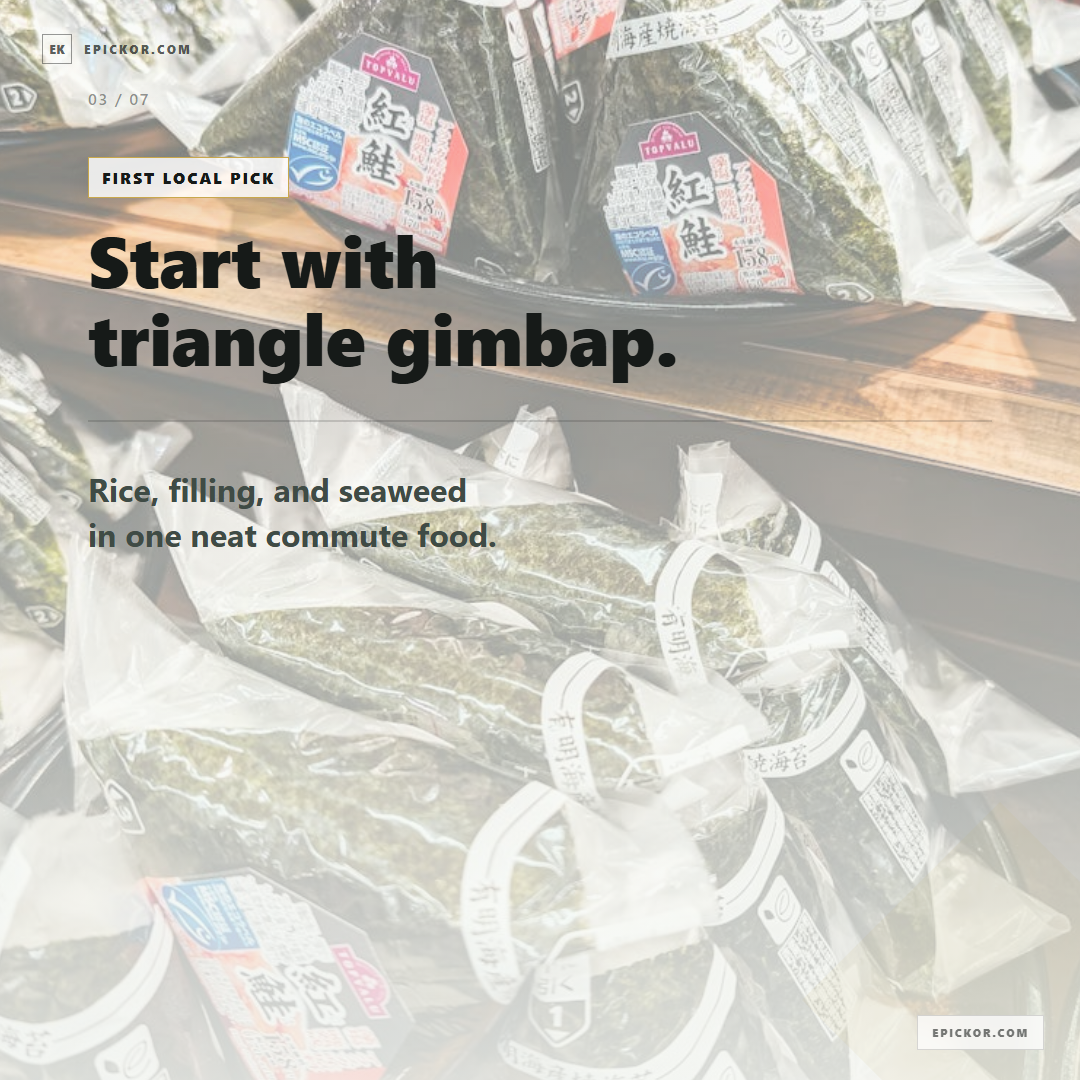
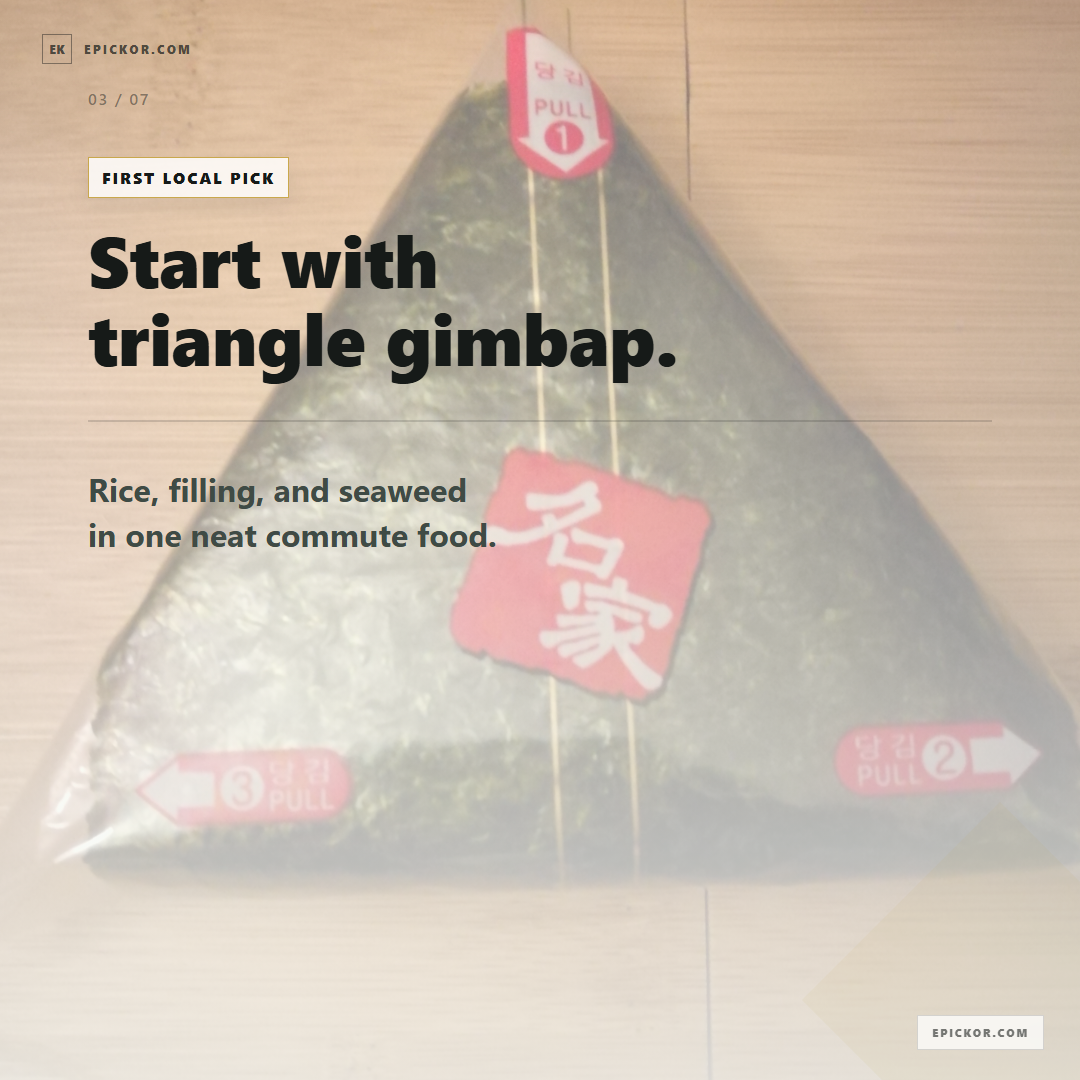
Require Korea-first card news imagery

diff --git a/public/assets/cardnews/171/script.md b/public/assets/cardnews/171/script.md
@@ -10,11 +10,11 @@ point_color: Gold
 theme: morning
 image_keyword: korean convenience store breakfast
 kicker: KOREAN MORNING GUIDE
-image: https://images.pexels.com/photos/27939228/pexels-photo-27939228.jpeg?auto=compress&cs=tinysrgb&w=1200
-image_opacity: 0.56
-image_zoom: 1.08
+image: https://upload.wikimedia.org/wikipedia/commons/b/b5/Expo_2012_Convenience_Store_GS25.JPG
+image_opacity: 0.58
+image_zoom: 1.02
 image_position: center center
-image_label: Packaged food shelf
+image_label: GS25 in Korea
 
 **Main:** Korean convenience store\nbreakfast is not fancy.
 **Sub:** That is why it feels local.
@@ -44,11 +44,11 @@ point_color: Gold
 theme: morning
 image_keyword: triangle gimbap breakfast
 kicker: FIRST LOCAL PICK
-image: https://images.pexels.com/photos/19969209/pexels-photo-19969209.jpeg?auto=compress&cs=tinysrgb&w=1200
-image_opacity: 0.54
-image_zoom: 1.08
+image: https://upload.wikimedia.org/wikipedia/commons/6/6a/Samgak_kimbap.jpg
+image_opacity: 0.58
+image_zoom: 1.04
 image_position: center center
-image_label: Packaged rice ball
+image_label: Samgak gimbap
 
 **Main:** Start with\ntriangle gimbap.
 **Sub:** Rice, filling, and seaweed\nin one neat commute food.
@@ -61,11 +61,11 @@ point_color: Teal
 theme: morning
 image_keyword: breakfast coffee egg bread
 kicker: CHOOSE BY MORNING
-image: https://images.pexels.com/photos/31359734/pexels-photo-31359734.jpeg?auto=compress&cs=tinysrgb&w=1200
+image: https://upload.wikimedia.org/wikipedia/commons/7/71/Korean_convenience_store_sandwiches_%282%29.jpg
 image_opacity: 0.72
-image_zoom: 1.10
+image_zoom: 1.08
 image_position: center center
-image_label: Store choice
+image_label: CU sandwich shelf
 
 **Main:** Match the food\nto the day.
 **Sub:** Walking all day? Choose rice.\nNot hungry? Bread and coffee.\nWant local rhythm? Gimbap and milk.
@@ -78,11 +78,11 @@ point_color: Gold
 theme: morning
 image_keyword: triangle gimbap wrapper
 kicker: TOURIST-SAFE TIP
-image: https://images.pexels.com/photos/3708747/pexels-photo-3708747.jpeg?auto=compress&cs=tinysrgb&w=1200
-image_opacity: 0.52
-image_zoom: 1.04
+image: https://upload.wikimedia.org/wikipedia/commons/1/1d/%EC%82%BC%EA%B0%81%EA%B9%80%EB%B0%A5_%EC%82%AC%EC%A7%84.jpg
+image_opacity: 0.56
+image_zoom: 1.08
 image_position: center center
-image_label: Wrapper system
+image_label: Korean triangle rice
 
 **Main:** The wrapper\nhas a system.
 **Sub:** Pull tab 1 first.\nThen remove the side wrappers\nso the seaweed stays crisp.
@@ -95,11 +95,11 @@ point_color: Teal
 theme: morning
 image_keyword: Korean convenience store storefront
 kicker: CONVENIENCE STORE MANNERS
-image: https://images.pexels.com/photos/35629977/pexels-photo-35629977.jpeg?auto=compress&cs=tinysrgb&w=1200
+image: https://upload.wikimedia.org/wikipedia/commons/3/31/Convenience_Store_CU_Arirang_Hotel_20120803.jpg
 image_opacity: 0.72
-image_zoom: 1.08
+image_zoom: 1.10
 image_position: center center
-image_label: Quick stop
+image_label: CU in Busan
 
 **Main:** Eat quickly.\nLeave space.
 **Sub:** Store seating is practical,\nnot cafe seating.\nKeep it brief and tidy.

diff --git a/public/assets/cardnews/171/image-sources.md b/public/assets/cardnews/171/image-sources.md
@@ -1,0 +1,43 @@
+# Card News 171 Image Sources
+
+## Card 01
+
+- Source: Wikimedia Commons, `Expo 2012 Convenience Store GS25.JPG`
+- URL: https://commons.wikimedia.org/wiki/File:Expo_2012_Convenience_Store_GS25.JPG
+- Use reason: Korean GS25 convenience store exterior at Expo 2012.
+
+## Card 02
+
+- Source: Pexels, Theodore Nguyen
+- URL: https://www.pexels.com/photo/vibrant-assortment-of-korean-drinks-in-a-convenience-store-fridge-in-seoul-south-korea-31735910/
+- Use reason: Korean drinks in a convenience-store fridge in Seoul, South Korea.
+
+## Card 03
+
+- Source: Wikimedia Commons, `Samgak kimbap.jpg`
+- URL: https://commons.wikimedia.org/wiki/File:Samgak_kimbap.jpg
+- Use reason: packaged triangle rice ball / samgak gimbap visual.
+
+## Card 04
+
+- Source: Wikimedia Commons, `Korean convenience store sandwiches (2).jpg`
+- URL: https://commons.wikimedia.org/wiki/File:Korean_convenience_store_sandwiches_(2).jpg
+- Use reason: Korean convenience-store sandwich shelf.
+
+## Card 05
+
+- Source: Wikimedia Commons, `삼각김밥 사진.jpg`
+- URL: https://commons.wikimedia.org/wiki/File:%EC%82%BC%EA%B0%81%EA%B9%80%EB%B0%A5_%EC%82%AC%EC%A7%84.jpg
+- Use reason: Korean triangle gimbap package.
+
+## Card 06
+
+- Source: Wikimedia Commons, `Convenience Store CU Arirang Hotel 20120803.jpg`
+- URL: https://commons.wikimedia.org/wiki/File:Convenience_Store_CU_Arirang_Hotel_20120803.jpg
+- Use reason: CU convenience store in Busan, South Korea.
+
+## Card 07
+
+- Source: Pexels
+- URL: https://www.pexels.com/photo/gimbap-on-white-ceramic-plate-8995161/
+- Use reason: gimbap close-up for the final local-order CTA.

diff --git a/CLAUDE.md b/CLAUDE.md
@@ -8,6 +8,9 @@
 - Every rendered card must show `EPICKOR.COM` as the watermark text. Do not use only `EpicKor` as the watermark label.
 - Card-news images must be fresh and varied. Do not reuse the same image within one carousel unless the user explicitly approves a repeated brand/product visual.
 - Do not reuse an image that already appears in another card-news carousel for a different post. Similar search keywords are not an excuse; select a new visual, new crop, or new source so each post has its own image identity.
+- Card-news images for Korea explainers must be Korea-first. Use visibly Korean places, Korean products, Korean signage, Korean packaging, or Korea-shot source metadata whenever the topic is Korean daily life, Korean food, travel, beauty, shopping, or culture.
+- Do not use images that are visibly from another country for Korea explainers. Foreign-language packaging, non-Korean convenience store brands, non-Korean streetscapes, or clearly non-Korean store interiors are disqualifying unless the card is explicitly making an international comparison.
+- If a topic-specific Korean image cannot be found, use a culturally neutral close-up, graphic treatment, or generated/owned visual rather than a visibly foreign stock image.
 - Before final save, Reviewer must compare the candidate `image:` values against existing `public/assets/cardnews/*/script.md` files and flag any cross-post duplicates.
 - Reviewer must inspect rendered PNGs card by card for image relevance, mobile readability, watermark presence, and swipe logic.
 - Record card news agent roles and rendered-image review in `HANDOFF.md`.

diff --git a/HANDOFF.md b/HANDOFF.md
@@ -50,6 +50,28 @@
     - All seven public PNGs are `1080x1080`.
     - Temporary `card_*.html` files were removed after render.
     - New image IDs appear only in 171 outputs when checked against existing card-news scripts.
+- Card News 171 second visual correction:
+  - Feedback:
+    - Card 02 and 07 were acceptable, but cards 01/03/04/05/06 used visibly non-Korean imagery.
+    - EpicKor Korea explainers must prioritize Korean visuals, or at minimum culturally neutral visuals.
+  - Guideline update:
+    - `CLAUDE.md` and `.claude/agents/cardnews-team/AGENT.md` now require Korea-first imagery for Korea explainers.
+    - Visibly foreign stock images are disallowed unless the card is explicitly an international comparison.
+    - If no Korean-specific image exists, use a neutral close-up, graphic treatment, or generated/owned visual.
+  - Image replacement:
+    - Card 01: Korean GS25 convenience-store exterior.
+    - Card 03: samgak gimbap / triangle rice ball image.
+    - Card 04: Korean convenience-store sandwich image.
+    - Card 05: Korean triangle gimbap image.
+    - Card 06: CU convenience store in Busan.
+    - Card 02 and Card 07 were kept.
+  - Attribution:
+    - Added `public/assets/cardnews/171/image-sources.md`.
+  - Verification:
+    - Re-rendered all seven cards, then re-rendered card 06 after replacing a weak image.
+    - All seven final PNGs are `1080x1080`.
+    - Temporary HTML files were removed.
+    - Checked old non-Korean Pexels IDs no longer appear in public card-news scripts.
 
 ## Latest Update - 2026-05-07 Reels 170 Motion Card Experiment
 

diff --git a/.claude/agents/cardnews-team/AGENT.md b/.claude/agents/cardnews-team/AGENT.md
@@ -4,6 +4,8 @@
 
 - Every card must have a relevant visual. Use the post's own images first; use Pexels only when the post lacks enough relevant images.
 - Avoid generic or misleading visuals. For EpicKor, prefer Korea, Seoul, Korean culture, Korean food, K-beauty, K-pop, or Korean daily-life context where relevant.
+- For Korea explainers, image selection is Korea-first. Prefer visibly Korean locations, products, signage, packaging, or source pages that explicitly describe the image as taken in South Korea.
+- Reject images that are clearly from another country when the card is explaining Korea. If no Korean-specific image exists, use a culturally neutral close-up, graphic treatment, or generated/owned visual instead of foreign-looking stock.
 - Every card must include a concise `kicker:` line that gives the Korea/EpicKor angle, such as `KOREA SPF GUIDE`, `SEOUL SKINCARE RULE`, or `K-BEAUTY TEXTURE MAP`.
 - Every rendered card must show `EPICKOR.COM` as the watermark text. Do not use only `EpicKor` as the watermark label.
 - The first card must create curiosity strong enough to make the user swipe to card 2.
